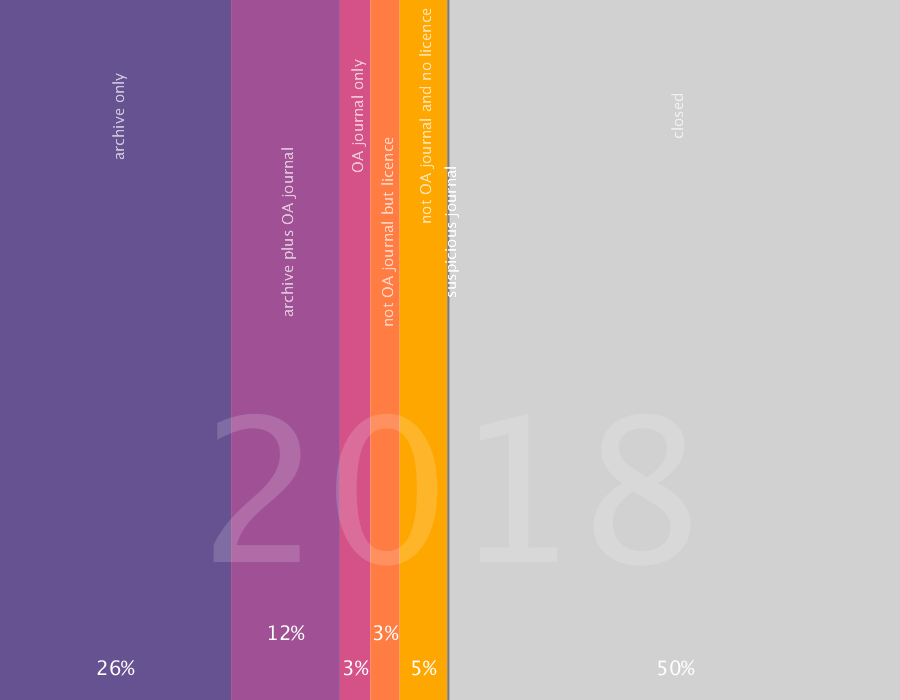
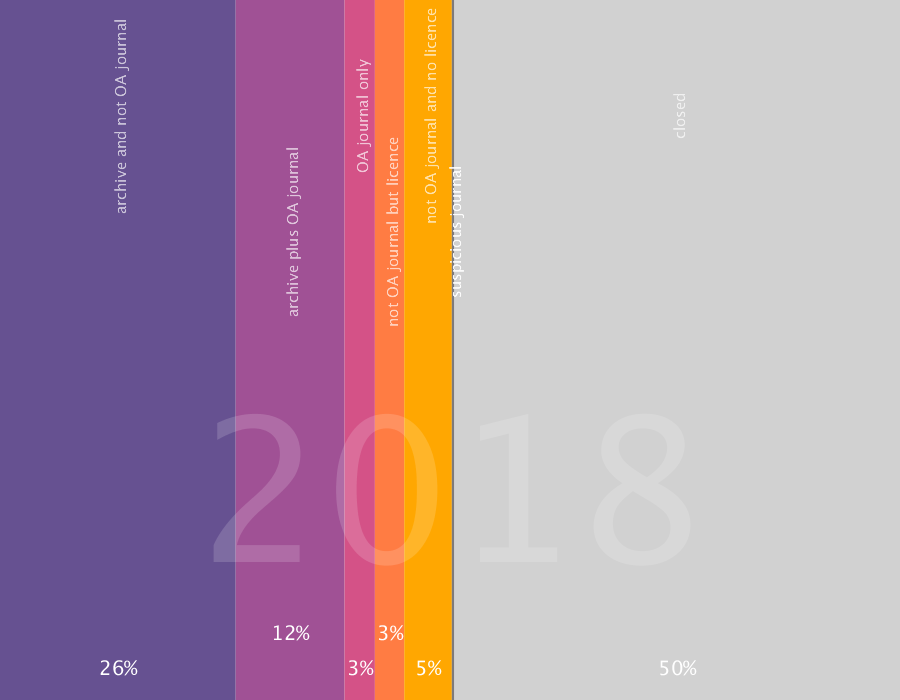
include HAL depot

diff --git a/add_oatype_column.py b/add_oatype_column.py
@@ -35,7 +35,7 @@ for index, row in df.iterrows():
 		treated = True	
 
 	if row['repo'] > 0 and row['j_is_oa'] == 0 : 
-		oaType.append(4) #archive only
+		oaType.append(4) #archive and j is not oa
 		treated = True	
 
 	if row['repo'] > 0 and row['j_is_oa'] == 1 : 

diff --git a/readme.md b/readme.md
@@ -6,13 +6,13 @@
 
 ## Résultats bruts
 
-publications dans archive ouverte & journal non open access : 39662<br />
+publications dans archive ouverte & journal non open access : 40454<br />
 publications dans archive ouverte & dans un journal open access : 18679<br />
 publications hors archive ouverte & dans un journal open access : 5211<br />
 publications hors archive ouverte & journal non open access mais avec licence ouverte : 5040<br />
 publications hors archive ouverte & journal non open access & sans licence ouverte : 8167<br />
-publications dans journaux suspects : 434<br />
-publications en accès fermé : 77284<br/>
+publications dans journaux suspects : 436<br />
+publications en accès fermé : 76490<br/>
 nombre publications : 154477<br />
 
 
